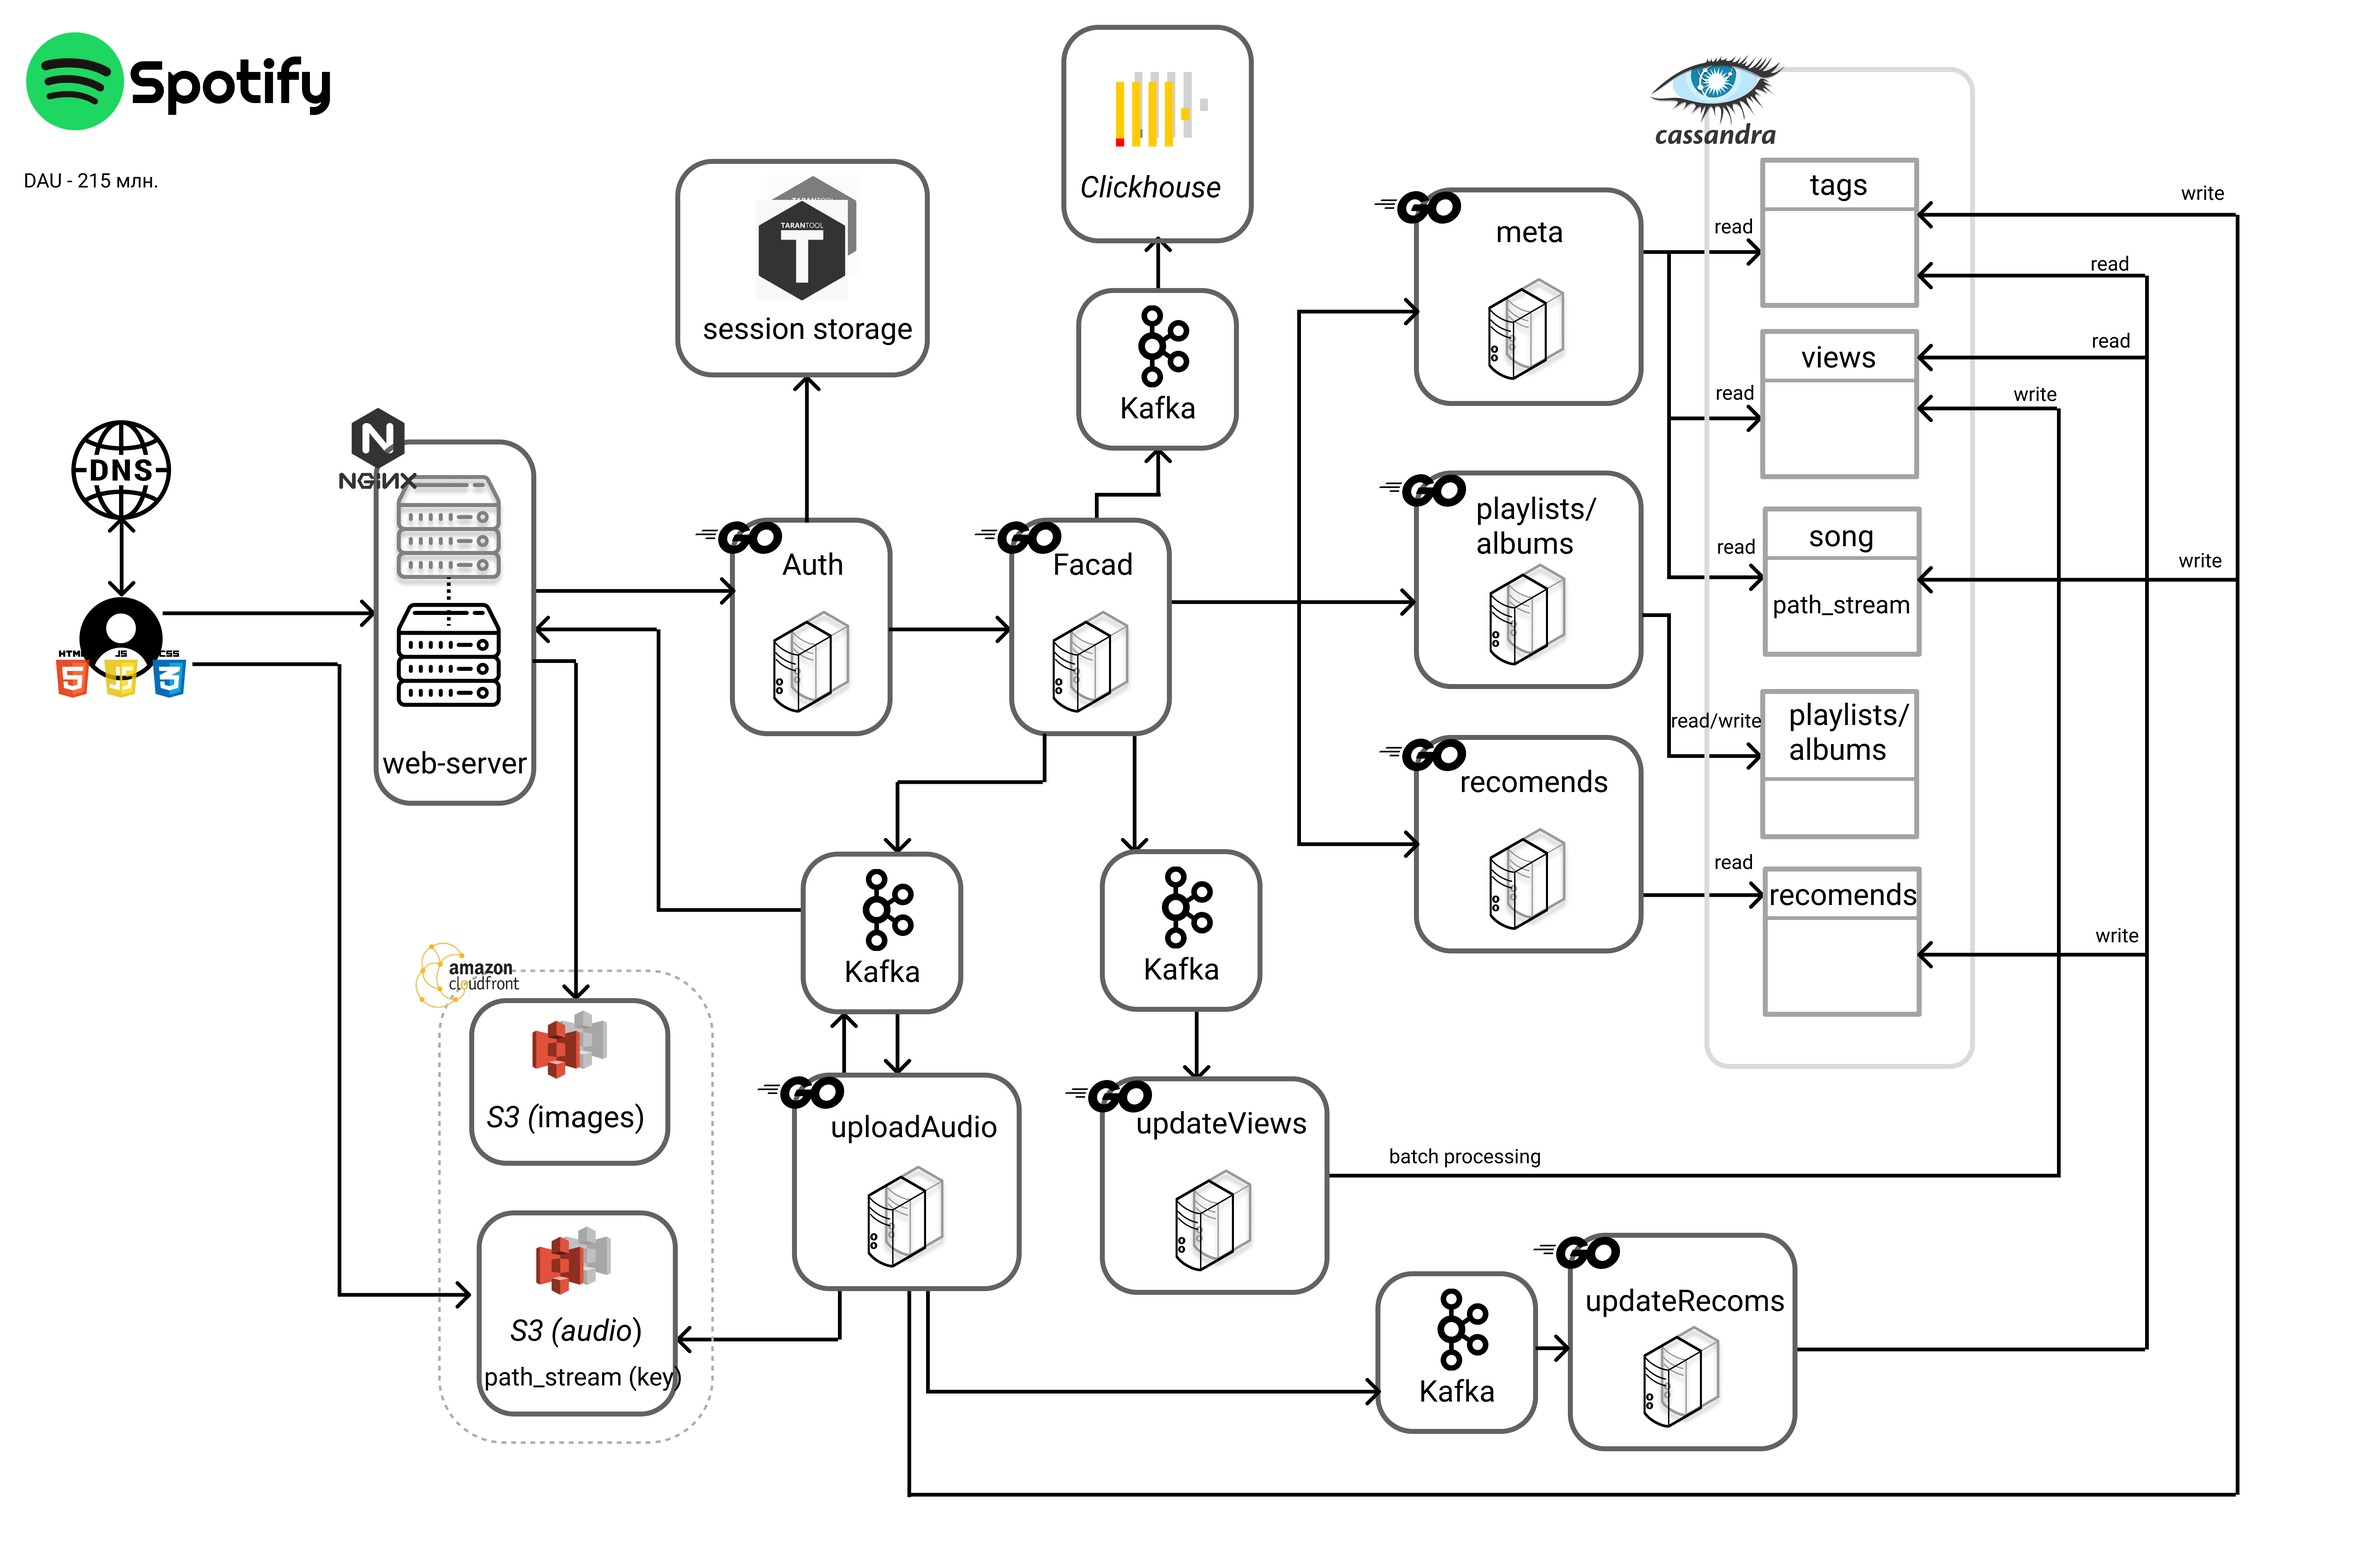
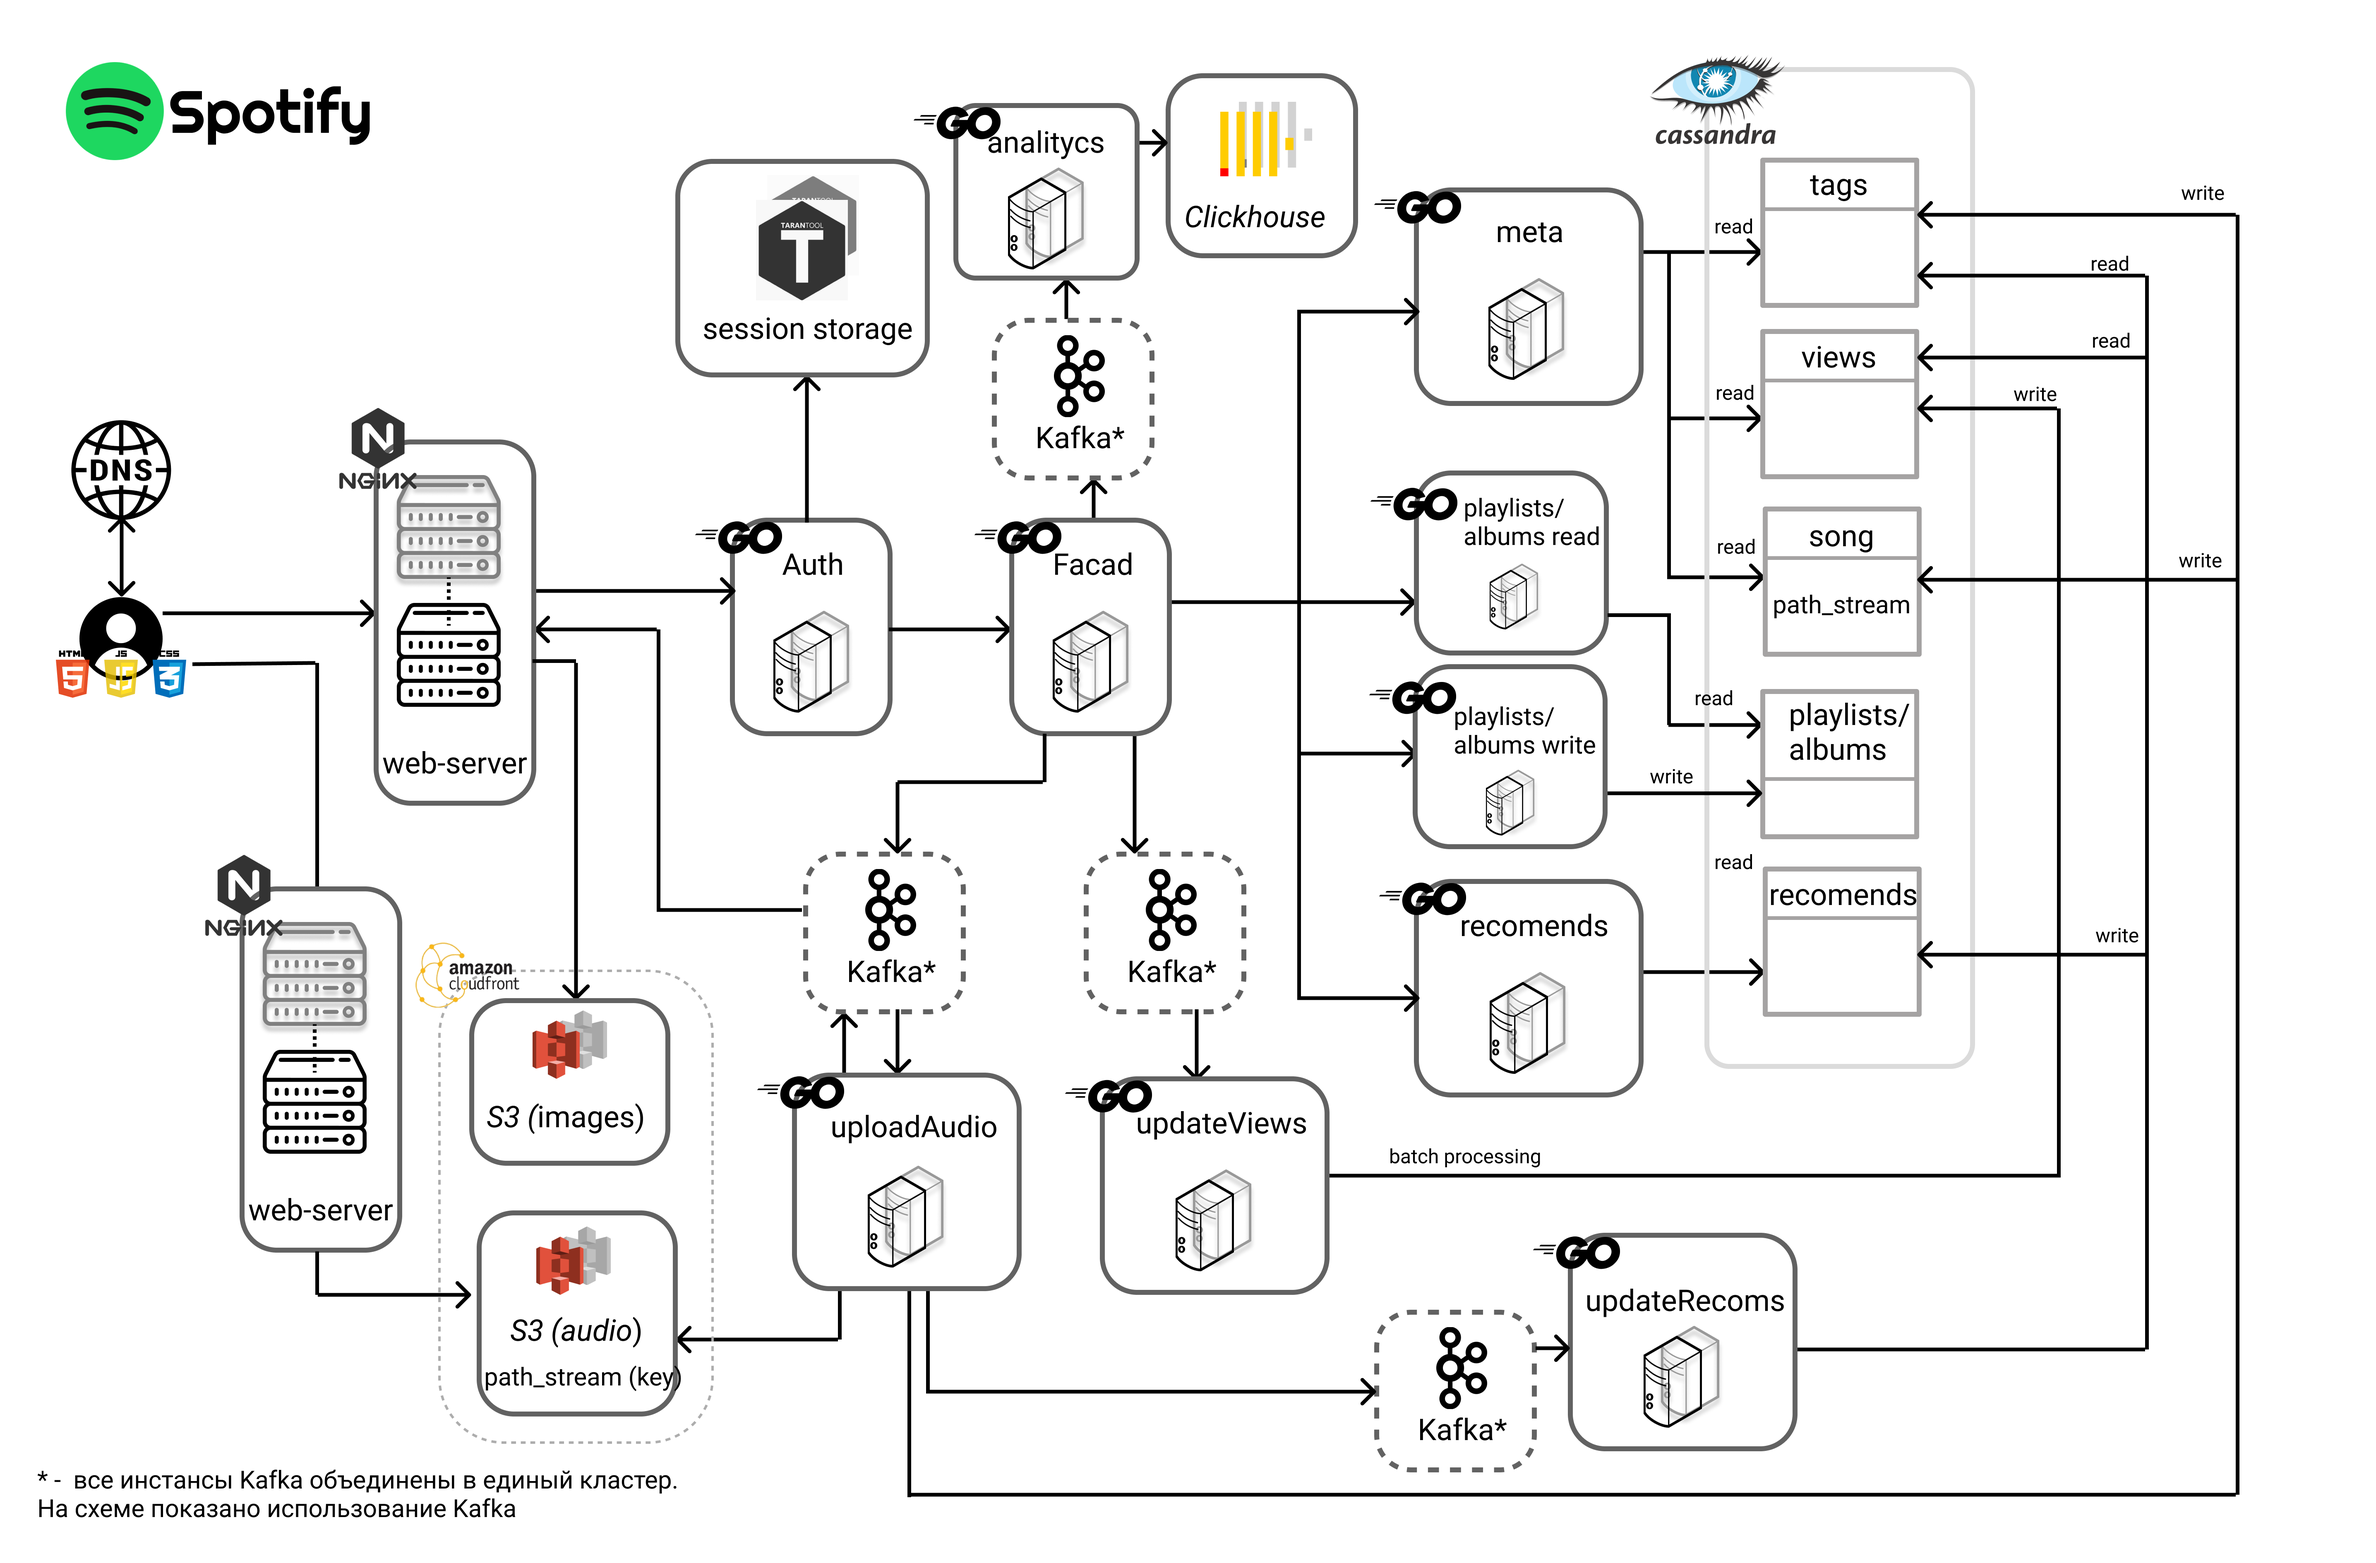
update schemes

diff --git a/README.md b/README.md
@@ -198,14 +198,14 @@ DAU * n_search / day = (215 * 10^6)[чел] * 3 / (24 * 3600)[сек] = 7465 RP
 2. Клиент подписывается на загрузку файла. В асинхронном режиме файл загружается в s3 и kafka создаёт событие об успешной загрузке. Клиенту отрисовывается иконка
 3. Далее бэкенд uploadAudio создаёт записи в таблицах song и tags.
 4. uploadAudio ставит задачу на создание рекомендаций для этого трека (см. далее).
-5. Далее клиенту через kafka также приходит сообщение о том, что трэк загружен, рекомендации cкоро появятся.
+5. Далее клиенту через kafka также приходит сообщение о том, что трек загружен, рекомендации cкоро появятся.
 
 ### Рекомендации
 Хранятся в таблице recomedns. Однако необходимо разделить операции чтения и записи. Бэкенд recomends может только читать. Обновляет рекомендации специальный сервис updateRecoms.
 
-Рассмотрим подробнее:
-1. После получения задачи в Kafka updateRecoms в удобное (несильно нагруженное) обращается к Cassandra.
-2. Выгребает из таблицы tags все похожие по тэгам треки
+Рассмотрим подробнее процесс обновлений рекомендаций:
+1. После получения задачи в kafka updateRecoms в удобное (несильно нагруженное) обращается к Cassandra.
+2. Выгребает из таблицы tags все похожие по тэгам треки.
 3. Выгребает по айдишникамм количество прослушиваний для этого трека.
 4. Фильтрует выбранные треки по убыванию по числу прослушиваний, объединяет в массив и записывает в таблицу recomends. Теперь бэкенд recomends может отдавать рекомендации для нового трека
 
